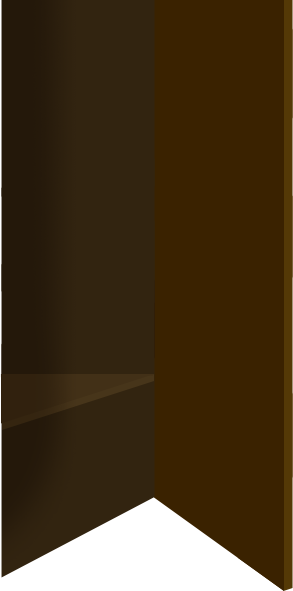
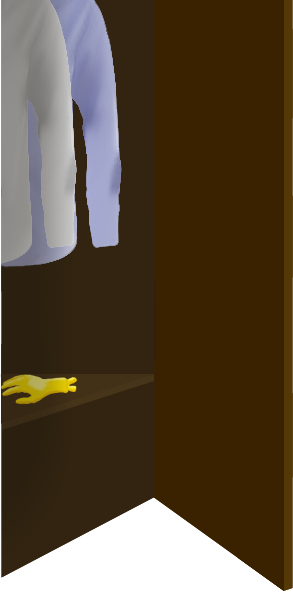
place elements, change sprite versus hitbox. tune inventory

diff --git a/lib/project.js b/lib/project.js
@@ -201,17 +201,19 @@
       BaseElement.__super__.setInteractive.apply(this, arguments);
       _this = this;
       if (state) {
-        if (this.sprite) {
-          this.sprite.setInteractive(state);
-          this.sprite.mouseover = function() {
+        if (this.hitbox) {
+          this.hitbox.setInteractive(state);
+          this.hitbox.mouseover = function() {
             return _this.mouseOver();
           };
-          this.sprite.mouseout = function() {
+          this.hitbox.mouseout = function() {
             return _this.mouseOut();
           };
-          this.sprite.click = function() {
+          this.hitbox.click = function() {
             return _this.mouseClick();
           };
+          this.hitbox.buttonMode = true;
+          this.hitbox.defaultCursor = "crosshair";
         } else {
           this.mouseover = function() {
             return _this.mouseOver();
@@ -222,17 +224,14 @@
           this.click = function() {
             return _this.mouseClick();
           };
-        }
-        this.buttonMode = true;
-        this.defaultCursor = "crosshair";
-        if (this.sprite) {
-          this.sprite.buttonMode = true;
-          this.sprite.defaultCursor = "crosshair";
+          this.buttonMode = true;
+          this.defaultCursor = "crosshair";
         }
       } else {
         this.buttonMode = false;
-        if (this.sprite) {
-          this.sprite.buttonMode = false;
+        if (this.hitbox) {
+          this.hitbox.buttonMode = false;
+          this.defaultCursor = "default";
         }
       }
       return this;
@@ -404,11 +403,14 @@
         return;
       }
       if (this.game.inventory.isHolding("lighter")) {
+        this.game.inventory.reset();
         return this.game.textManager.setText("It won't burn.");
       }
       if (this.game.inventory.isHolding("knife")) {
+        this.game.inventory.reset();
         return this.game.textManager.setText("Can't cut it.");
       }
+      this.game.inventory.reset();
       return this.game.textManager.setText("Nothing to do here.");
     };
 
@@ -590,11 +592,8 @@
         if (e.sprite) {
           element.withSprite(e.sprite);
         }
-        if (e.size) {
-          element.withHitBox();
-          if (e.size) {
-            element.setSize(e.size);
-          }
+        if (e.hitbox) {
+          element.withHitBox(e.hitbox);
         }
         element.setScene(this);
         element.setID(e.id);
@@ -742,13 +741,12 @@
       return this;
     };
 
-    SceneElement.prototype.withHitBox = function() {
-      var sprite;
-      sprite = new Sprite(GameAssets.getImage('abstract/debug.png'));
-      this.setSprite(sprite);
-      sprite.width = 20;
-      sprite.height = 20;
-      return sprite.alpha = Game.DEV_ENV ? 0.3 : 0;
+    SceneElement.prototype.withHitBox = function(size) {
+      this.hitbox = new Sprite(GameAssets.getImage('abstract/debug.png'));
+      this.addChild(this.hitbox);
+      this.hitbox;
+      this.hitbox.setSize(size);
+      return this.hitbox.alpha = Game.DEV_ENV ? 0.3 : 0;
     };
 
     SceneElement.prototype.addHelper = function() {
@@ -762,10 +760,10 @@
     };
 
     SceneElement.prototype.placeHelper = function() {
-      if (!this.sprite) {
+      if (!this.hitbox) {
         return this;
       }
-      this.helper.setX(this.sprite.width / 2 - this.helper.width / 2);
+      this.helper.setX(this.hitbox.width / 2 - this.helper.width / 2);
       this.helper.setY(-this.helper.height / 2);
       return this;
     };
@@ -834,7 +832,7 @@
     };
 
     SceneElement.prototype.placeText = function() {
-      this.currentText.setX(this.getWidth() / 2 - this.currentText.width / 2);
+      this.currentText.setX(this.hitbox.width / 2 - this.currentText.width / 2);
       this.currentText.setY(-this.currentText.height * 1.5);
       return this;
     };
@@ -856,10 +854,10 @@
       if (this.game.textManager.visible) {
         return this.hideHelper().hideText();
       }
-      if (this.sprite && this.helper && this.sprite.buttonMode) {
+      if (this.hitbox && this.helper && this.hitbox.buttonMode) {
         this.showHelper();
       }
-      if (this.sprite && this.sprite.buttonMode) {
+      if (this.hitbox && this.hitbox.buttonMode) {
         this.showText();
       }
       this.game.inventory.on(this);
@@ -871,10 +869,10 @@
       if (this.game.textManager.visible) {
         return this.hideHelper().hideText();
       }
-      if (this.sprite && this.helper && this.sprite.buttonMode) {
+      if (this.hitbox && this.helper && this.hitbox.buttonMode) {
         this.hideHelper();
       }
-      if (this.sprite && this.sprite.buttonMode) {
+      if (this.hitbox && this.hitbox.buttonMode) {
         this.hideText();
       }
       this.game.inventory.on(null);
@@ -892,30 +890,13 @@
     };
 
     SceneElement.prototype.setSize = function(size) {
-      if (this.sprite) {
-        this.sprite.width = size.width;
-        this.sprite.height = size.height;
+      if (this.hitbox) {
+        this.hitbox.width = size.width;
+        this.hitbox.height = size.height;
       } else {
-        this.width = size.width;
-        this.height = size.height;
+        SceneElement.__super__.setSize.apply(this, arguments);
       }
       return this;
-    };
-
-    SceneElement.prototype.getWidth = function() {
-      if (this.sprite) {
-        return this.sprite.width;
-      } else {
-        return this.width;
-      }
-    };
-
-    SceneElement.prototype.getHeight = function() {
-      if (this.sprite) {
-        return this.sprite.height;
-      } else {
-        return this.height;
-      }
     };
 
     SceneElement.prototype.hide = function() {
@@ -1166,20 +1147,19 @@
         }
         if (this.scene.findElement('georgette').dead) {
           if (this.scene.onFire) {
-            return this.game.textManager.setText("I cannot leave by foot, they will find me. Better take his car.");
+            this.game.textManager.setText("I cannot leave by foot, they will find me. Better take his car.");
           } else {
-            return this.game.textManager.setText("I need to fix this mess.");
+            this.game.textManager.setText("I need to fix this mess.");
           }
         } else {
-          return this.game.textManager.setText("I cannot leave him leave like that.");
+          this.game.textManager.setText("I cannot leave him leave like that.");
         }
       } else if (this.game.inventory.isHolding('keys')) {
         this.game.sceneManager.change('transitionApartmentOut');
         this.game.soundManager.playSound('apartment-walking');
-        return this.game.textManager.setText(false);
-      } else {
-        return Door.__super__.mouseClick.apply(this, arguments);
+        this.game.textManager.setText(false);
       }
+      return Door.__super__.mouseClick.apply(this, arguments);
     };
 
     Door.prototype.open = function() {
@@ -1323,28 +1303,39 @@
       if (this.game.inventory.isHandFree()) {
         if (this.dead) {
           this.game.textManager.setText("She will probably shut up now.");
+          this.game.inventory.use(this);
+          return;
         } else {
           this.game.textManager.setText("She saw too much, she will call the cops. Nobody will believe me.");
           return;
         }
       }
       if (this.game.inventory.isHolding('knife')) {
-        this.scene.findElement('knife').hide();
-        this.game.textManager.setText("Sorry.");
-        this.die();
+        if (!this.dead) {
+          this.scene.findElement('knife').hide();
+          this.game.textManager.setText("Sorry.");
+          this.die();
+        } else {
+          this.game.textManager.setText("She is dead enough, I think.");
+        }
         return;
       }
       if (this.game.inventory.isHolding('piggyBank')) {
-        this.scene.findElement('piggyBank').hide();
-        this.game.textManager.setText("Sorry.");
-        this.die();
+        if (!this.dead) {
+          this.scene.findElement('piggyBank').hide();
+          this.game.textManager.setText("Sorry.");
+          this.die();
+        } else {
+          this.game.textManager.setText("She is dead enough, I think.");
+        }
         return;
       }
       return Georgette.__super__.mouseClick.apply(this, arguments);
     };
 
     Georgette.prototype.die = function() {
-      return this.dead = true;
+      this.dead = true;
+      return this.game.inventory.reset();
     };
 
     return Georgette;
@@ -1637,7 +1628,7 @@
     __extends(PiggyBank, _super);
 
     function PiggyBank() {
-      PiggyBank.__super__.constructor.apply(this, arguments);
+      return PiggyBank.__super__.constructor.apply(this, arguments);
     }
 
     PiggyBank.prototype.mouseClick = function() {
@@ -1919,7 +1910,7 @@
       this.opened = true;
       this.setText("Open Wardrobe");
       this.openedSprite.show();
-      this.sprite.setX(0).setY(-150).setWidth(200).setHeight(300);
+      this.hitbox.setX(0).setY(-150).setWidth(200).setHeight(300);
       this.placeHelper().placeText();
       this.scene.findElement('wardrobeGoldenHand').show();
       return this.game.soundManager.playSound('apartment-wardrobe');
@@ -2675,8 +2666,7 @@
 
     TextManager.prototype.mouseClick = function() {
       TextManager.__super__.mouseClick.apply(this, arguments);
-      this.game.textManager.next();
-      return this.game.inventory.use(null);
+      return this.game.textManager.next();
     };
 
     TextManager.prototype.setText = function(t) {
